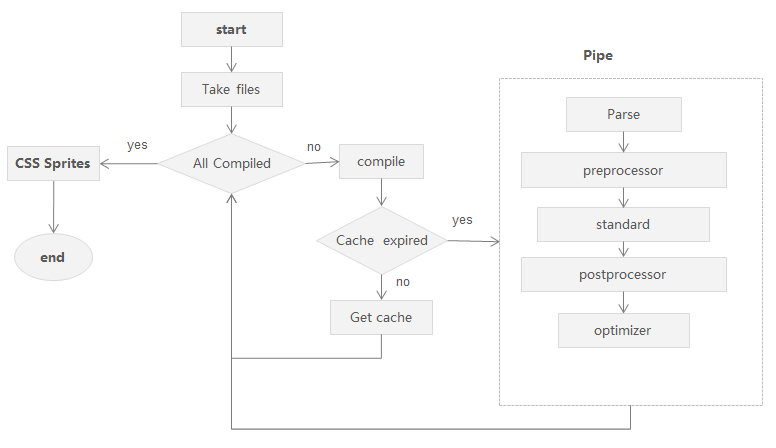
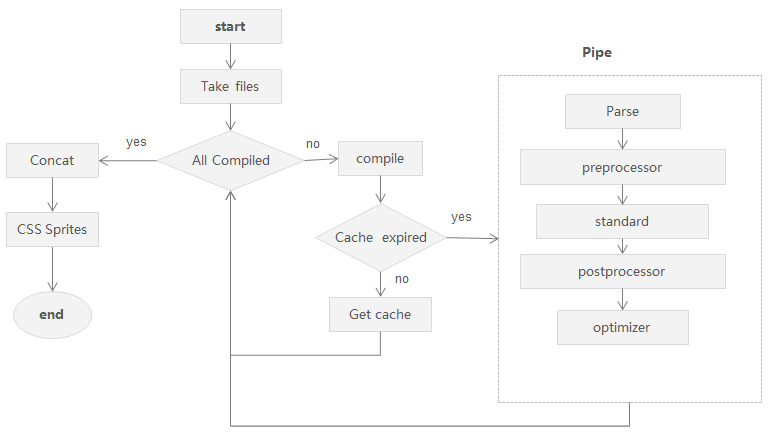
add image

diff --git a/doc/compilation plugin.md b/doc/compilation plugin.md
@@ -226,6 +226,10 @@ Compress png images with pngquant.
 
 Prevent Smarty from XSS.
 
+###Concat
+
+Concatenate files. See more in [Concat Files With Pack Plugin](./doc/pack-configuration.md);
+
 ###CSS Sprites
 
 Generates a sprite from images referenced in a stylesheet and then updates the references with the new sprite image and positions.
